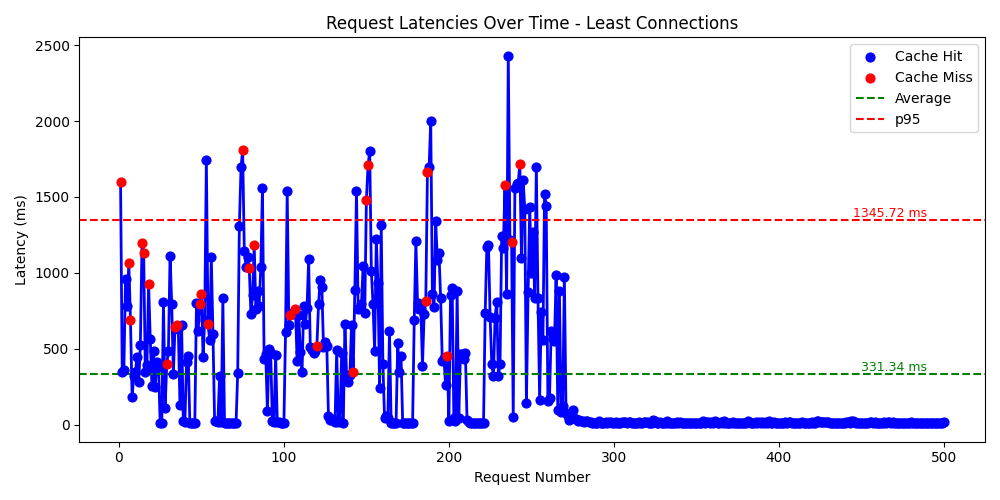
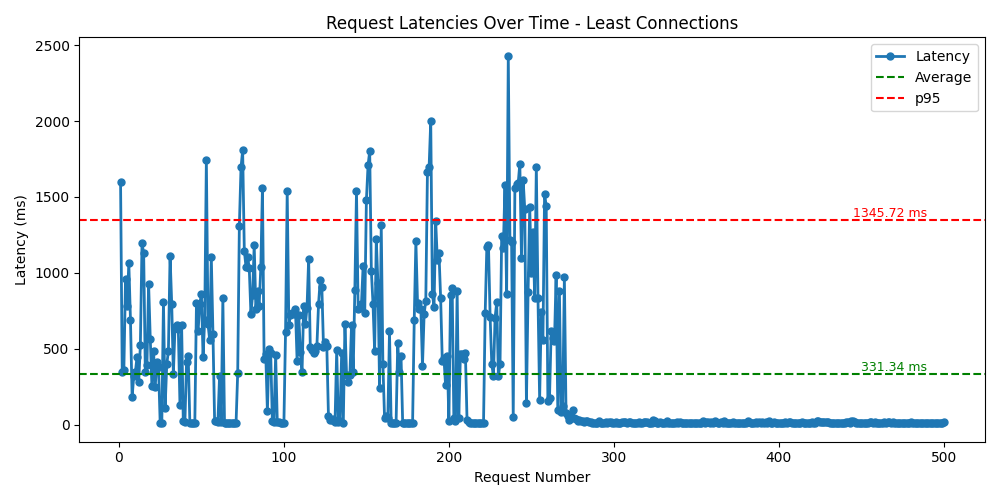
plots

Changed region(s): [[0.093, 0.09, 0.961, 0.87], [0.868, 0.09, 0.992, 0.27], [0.093, 0.36, 0.124, 0.39]]

diff --git a/client/plotter.py b/client/plotter.py
@@ -7,35 +7,15 @@ from datetime import datetime
 def plot_records(records, plotname="plot"):
     # Extract latency_ms and timestamps
     latencies = [r["latency_ms"] for r in records if "latency_ms" in r]
-    timestamps = [datetime.fromisoformat(r["timestamp"]) for r in records if "latency_ms" in r]
 
     requests = list(range(1, len(latencies)+1))
     avg_latency = np.mean(latencies)
     tail_latency = np.percentile(latencies, 95)
 
-    # Calculate throughput
-    # duration_sec = (timestamps[-1] - timestamps[0]).total_seconds()
-    # throughput = len(latencies) / duration_sec
-
     plt.figure(figsize=(10,5))
-    plt.plot(requests, latencies, color="blue", linestyle="-", linewidth=2)
-
-    # --- Separate cache hits and misses ---
-    hit_x, hit_y = [], []
-    miss_x, miss_y = [], []
-    for i, r in enumerate(records, start=1):
-        if "latency_ms" not in r:
-            continue
-        if r.get("cache_miss", False):
-            miss_x.append(i)
-            miss_y.append(r["latency_ms"])
-        else:
-            hit_x.append(i)
-            hit_y.append(r["latency_ms"])
-
-    # Overlay points with different colors
-    plt.scatter(hit_x, hit_y, color="blue", s=40, label="Cache Hit", zorder=5)
-    plt.scatter(miss_x, miss_y, color="red", s=40, label="Cache Miss", zorder=5)
+    plt.plot(
+        requests, latencies, linestyle="-", linewidth=2, marker="o", markersize=5, label="Latency"
+    )
 
     # Draw average line
     plt.axhline(avg_latency, color='green', linestyle='--', label='Average')
@@ -49,7 +29,7 @@ def plot_records(records, plotname="plot"):
 
     plt.xlabel("Request Number")
     plt.ylabel("Latency (ms)")
-    plt.title(f"{plotname}") #\nThroughput: {throughput:.2f} req/sec
+    plt.title(f"{plotname}")
     plt.legend()
     plt.tight_layout()
     plt.savefig(f"docs/figs/{plotname}_timeline.png")
@@ -103,10 +83,10 @@ def load_all_json_records(folders):
     return averaged_records
 
 if __name__ == "__main__":
-    foldernames = ["docs/round_robin/run3", "docs/round_robin/run2", "docs/round_robin/run1"]
-    # foldernames = ["docs/least_connections/run3", "docs/least_connections/run2", "docs/least_connections/run1"]
+    # foldernames = ["docs/round_robin/run3", "docs/round_robin/run2", "docs/round_robin/run1"]
+    foldernames = ["docs/least_connections/run3", "docs/least_connections/run2", "docs/least_connections/run1"]
     # foldernames = ["docs/round_robin/run2"]
-    plotname = "Request Latencies Over Time - Round Robin x"
+    plotname = "Request Latencies Over Time - Least Connections"
 
     records = load_all_json_records(foldernames)
     plot_records(records, plotname)
